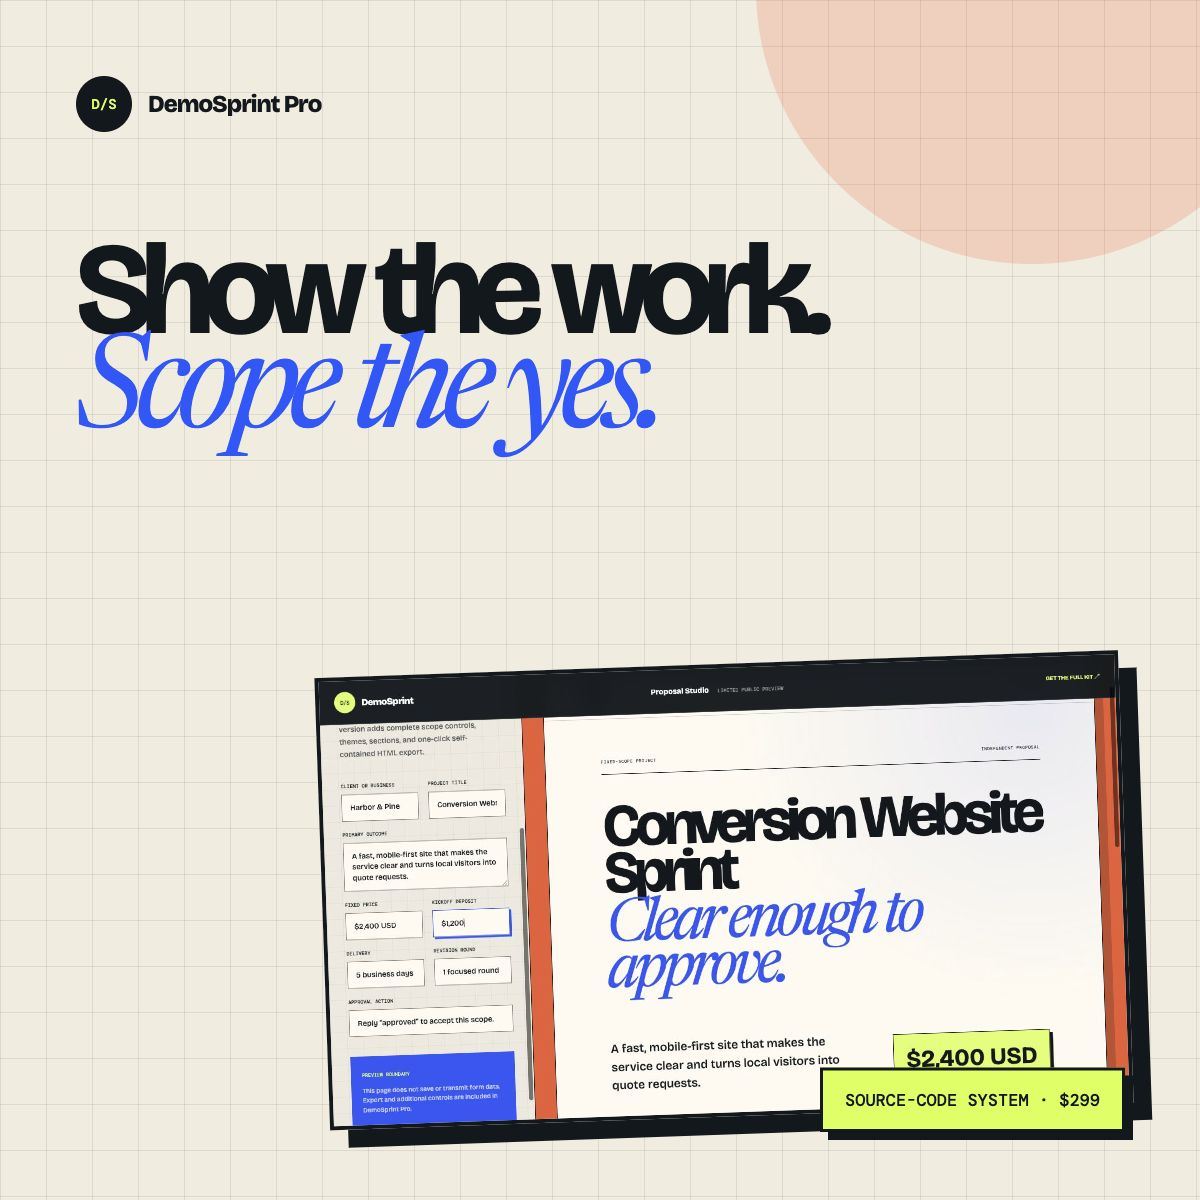
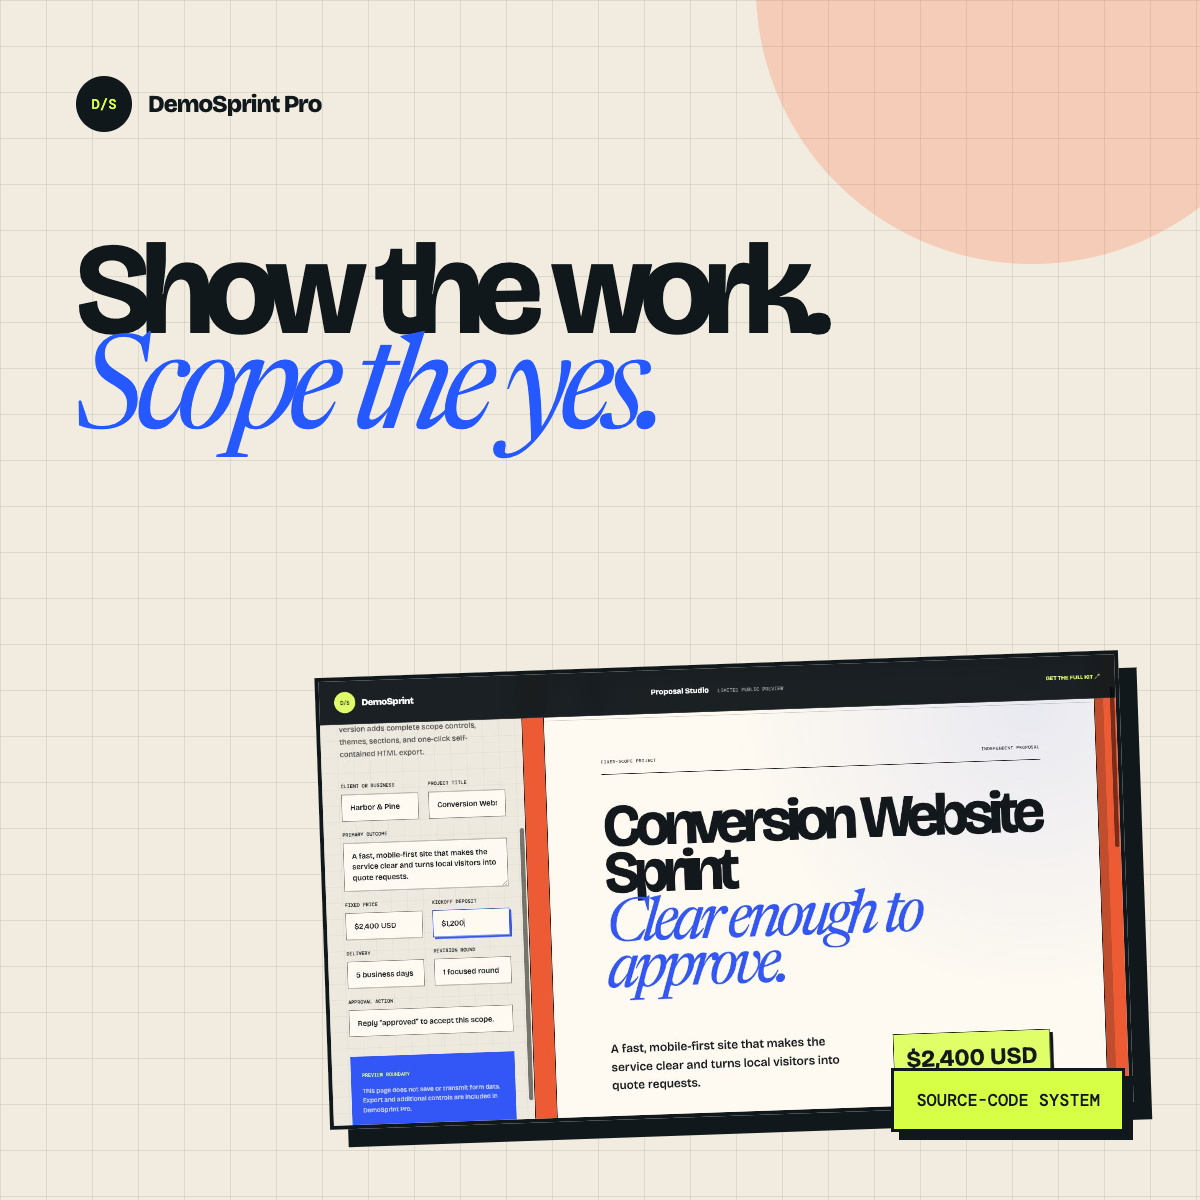
Launch DemoSprint founding offer

diff --git a/demosprint/styles.css b/demosprint/styles.css
@@ -1090,6 +1090,38 @@ a {
   text-transform: uppercase;
 }
 
+.founder-bonus {
+  max-width: 720px;
+  margin-top: 34px;
+  padding: 24px 26px;
+  border: 2px solid var(--ink);
+  background: var(--acid);
+  box-shadow: 8px 8px 0 var(--ink);
+}
+
+.founder-bonus > span {
+  display: block;
+  margin-bottom: 12px;
+  font-family: var(--mono);
+  font-size: 9px;
+  text-transform: uppercase;
+}
+
+.founder-bonus strong {
+  display: block;
+  max-width: 620px;
+  font-size: clamp(24px, 2.6vw, 38px);
+  line-height: 1;
+  letter-spacing: -0.045em;
+}
+
+.founder-bonus p {
+  max-width: 650px;
+  margin: 16px 0 0;
+  font-size: 13px;
+  line-height: 1.55;
+}
+
 .price-card {
   display: flex;
   flex-direction: column;

diff --git a/demosprint/index.html b/demosprint/index.html
@@ -73,7 +73,7 @@
         },
         "offers": {
           "@type": "Offer",
-          "price": "299",
+          "price": "199",
           "priceCurrency": "USD",
           "availability": "https://schema.org/InStock",
           "url": "https://whop.com/demosprint/demosprint-pro/"
@@ -85,8 +85,8 @@
     <div class="noise" aria-hidden="true"></div>
     <aside class="launch-strip" aria-label="DemoSprint launch offer">
       <span class="launch-strip-label">First-release offer</span>
-      <strong><s>$299</s> $249 with <code>FIRST50</code></strong>
-      <span>5 total redemptions &middot; ends June 21, 2026</span>
+      <strong><s>$199</s> $149 with <code>FIRST50</code></strong>
+      <span>5 total redemptions + founder review &middot; ends June 21, 2026</span>
     </aside>
     <header class="site-header">
       <a class="brand" href="#top" aria-label="DemoSprint home">
@@ -100,7 +100,7 @@
         <a href="#license">License</a>
         <a href="./affiliate/">Affiliates</a>
       </nav>
-      <a class="header-buy" data-checkout-link href="#buy">Get the kit <span>$249*</span></a>
+      <a class="header-buy" data-checkout-link href="#buy">Get the kit <span>$149*</span></a>
     </header>
 
     <main id="top">
@@ -118,13 +118,14 @@
           </p>
           <div class="hero-actions">
             <a class="button button-dark" data-checkout-link href="#buy">
-              Get launch price <span>$249*</span>
+              Get launch price <span>$149*</span>
             </a>
             <a class="text-link" href="./demo/">Try the proposal preview <span>&nearr;</span></a>
           </div>
           <p class="microcopy">
             *Use <strong>FIRST50</strong> at checkout through June 21, 2026.
-            Five total one-per-buyer redemptions. No income or conversion guarantees.
+            Five total one-per-buyer redemptions include the bounded founder
+            review described below. No income or conversion guarantees.
           </p>
         </div>
 
@@ -461,15 +462,26 @@
             <span>Commercial client-work license</span>
             <span>All future v1.x fixes</span>
           </div>
+          <aside class="founder-bonus">
+            <span>Founding-buyer bonus &middot; FIRST50 redemptions only</span>
+            <strong>Get one written review of your first real DemoSprint setup.</strong>
+            <p>
+              Submit one redacted prospect brief and one customized DemoSprint
+              page or proposal within 7 days of purchase. Saksham will return
+              up to five specific revision recommendations within 2 business
+              days. This does not include custom implementation, client
+              outreach, legal or financial advice, or a result guarantee.
+            </p>
+          </aside>
         </div>
         <div class="price-card reveal">
           <div>
             <span>First-release price</span>
-            <div class="price-before">$299</div>
-            <strong><sup>$</sup>249</strong>
+            <div class="price-before">$199</div>
+            <strong><sup>$</sup>149</strong>
             <small>
               USD with code <b>FIRST50</b> &middot; ends June 21, 2026 &middot;
-              five total redemptions
+              five total redemptions with founder review
             </small>
           </div>
           <a class="button button-accent" data-checkout-link href="#buy">

diff --git a/demosprint/affiliate/index.html b/demosprint/affiliate/index.html
@@ -55,9 +55,10 @@
           </div>
           <h1>Recommend a useful system.<br><em>Earn on the sale.</em></h1>
           <p>
-            DemoSprint Pro is a $299 source-code demo and proposal system for
-            independent web developers. Qualified affiliates receive 25% of
-            each completed referred payment tracked by Whop.
+            DemoSprint Pro is a $199 source-code demo and proposal system for
+            independent web developers. The five-use first-release offer is
+            $149 with code FIRST50. Qualified affiliates receive 25% of each
+            completed referred payment tracked by Whop.
           </p>
           <div class="affiliate-actions">
             <a
@@ -75,8 +76,8 @@
         </div>
 
         <aside class="commission-card" aria-label="Affiliate economics">
-          <span>Commission per completed $299 sale</span>
-          <strong><sup>$</sup>74.75</strong>
+          <span>Commission per completed $199 sale</span>
+          <strong><sup>$</sup>49.75</strong>
           <dl>
             <div>
               <dt>Rate</dt>
@@ -95,6 +96,11 @@
               <dd>Whop</dd>
             </div>
           </dl>
+          <p>
+            A completed $149 FIRST50 sale pays $37.25 before any platform
+            adjustment. The five-code redemptions also include one bounded
+            founder review for the buyer.
+          </p>
           <p>
             Whop controls tracking and payout timing. Refunded, disputed, or
             fraudulent transactions do not earn a retained commission.